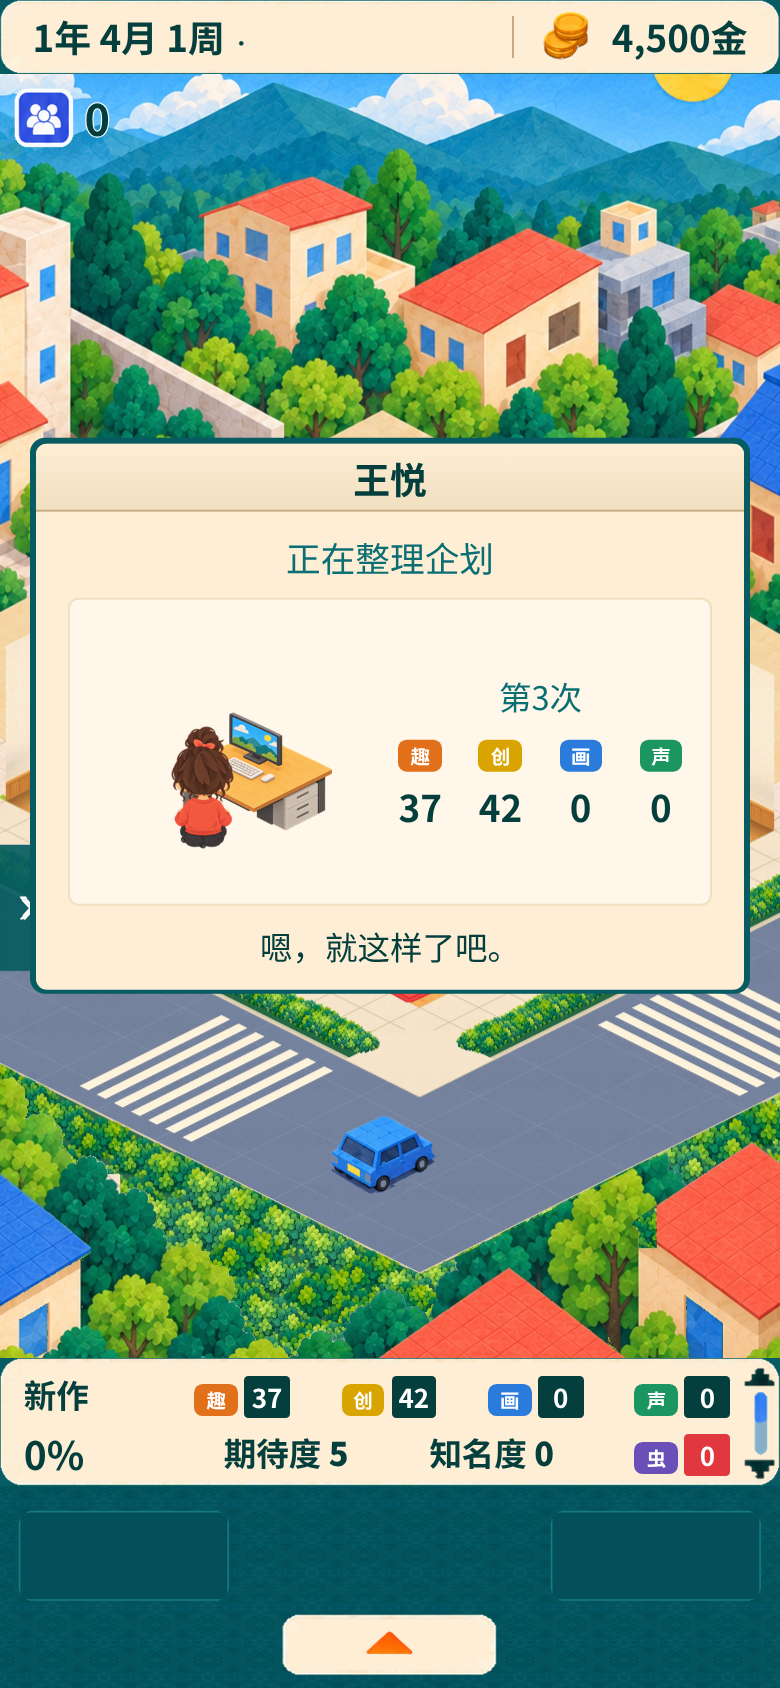
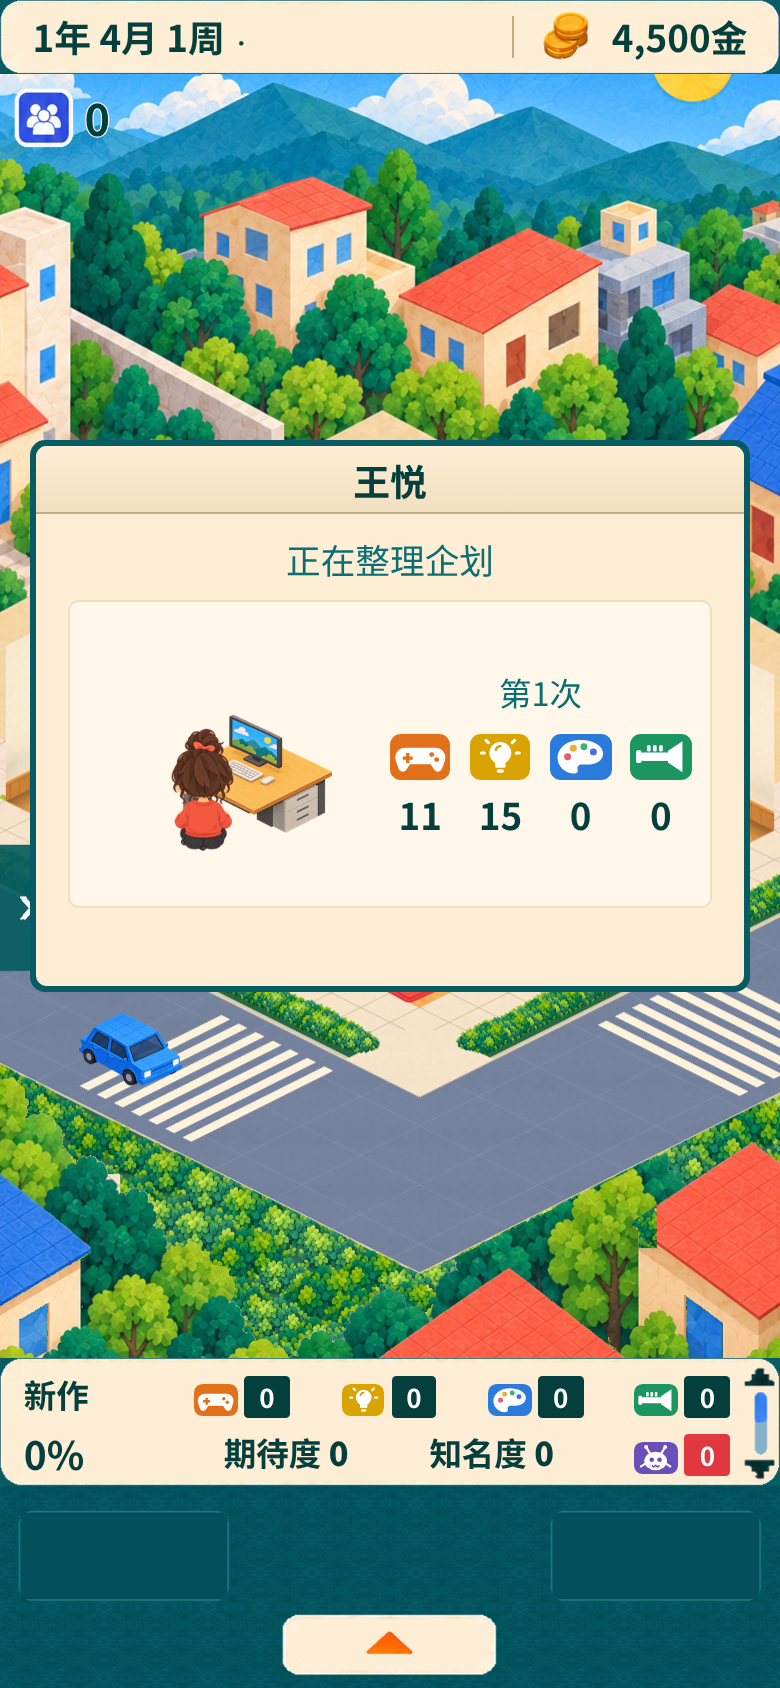
开发物语：点数/能力改成图标 + 负责人工作画面放慢到约 8 秒
- 趣/创/画/声/虫、程/剧/画/曲 全部换成图形图标（手柄、灯泡、调色盘、小号、小怪兽、电脑、书和笔），为出海去掉汉字；先用 SVG 占位，交付 assets/ui/ui_stat_*、ui_skill_*.png 后自动替换
- 用在信息栏、职员卡片、负责人工作画面、员工头顶冒点数气泡（气泡改成 图标 +N）
- 负责人工作画面整段约 8.5 秒：每次分 6 下涨数字，每下头顶冒对应图标
- UI需求：说明图标全游戏通用、不能有汉字

Claude-Session: https://claude.ai/code/session_01Sjn82GC4RaPqDzsSUAuyYh

diff --git a/games/kaifa-wuyu/src/game.src.html b/games/kaifa-wuyu/src/game.src.html
@@ -159,6 +159,13 @@ button:focus-visible{outline:3rem solid #F07A1A;outline-offset:2rem}
 .wst b.bump{animation:wbump .35s ease-out}
 @keyframes wbump{40%{transform:scale(1.35)}}
 .wsay{text-align:center;font-size:30rem;min-height:40rem;color:var(--ink)}
+/* 点数 / 能力图标（SVG 占位，交付 ui_stat_* / ui_skill_* 后换成贴图） */
+.sicon{padding:0;overflow:hidden}
+.sicon svg{width:100%;height:100%;display:block}
+.sicon.art{border-radius:0;box-shadow:none}
+.wst .ico-s{width:56rem;height:42rem;border-radius:10rem}
+.pop.ipop{display:flex;align-items:center;gap:4rem;padding:4rem 10rem 4rem 6rem}
+.pop .pico{width:34rem;height:26rem;display:inline-block;border-radius:0}
 .pmk{font-style:normal;font-size:22rem;color:#E2A400;margin-left:6rem}.pmk.x{color:var(--neg)}
 .pfoot .tico{width:40rem;height:40rem;border-radius:6rem;display:grid;place-items:center;color:#fff;font-size:20rem;font-weight:700}
 /* 制作人卡片 */

diff --git a/games/kaifa-wuyu/UI需求.md b/games/kaifa-wuyu/UI需求.md
@@ -19,6 +19,7 @@
 - 能拉伸的框一律做 **九宫格**：表里「九宫格」一栏是四边不拉伸的宽度（上,右,下,左）。
 - 按钮都要 **常态 / 按下** 两个状态；菜单项、选项行另有 **选中**。
 - 文字由程序渲染，图里**不要带字**（图标里的符号除外）。
+- **游戏以后要发布到美国**：图标里也不要用汉字（趣 / 创 / 画 / 声 / 虫、程 / 剧 / 画 / 曲这类单字都已改成图形），一切含义都靠图形表达。
 
 ## 风格母版：第二版效果图（已定稿）
 
@@ -154,7 +155,7 @@
 | ui_card_box | 604×自适应 | 10,10,10,10 | 卡片中部白底圆角框（左右两栏外框） |
 | ui_card_left | 270×220 | 6,6,6,6 | 左栏底（浅粉）：职业、等级、小人、体力 |
 | ui_card_right | 270×220 | 6,6,6,6 | 右栏底（浅绿灰）：四项能力 |
-| ui_skill_prog / scen / gfx / snd | 32×32 | — | 能力图标：编程（电脑）、编剧（书和笔）、画面（调色盘）、作曲（小号） |
+| ui_skill_prog / scen / gfx / snd | 32×32 | — | 能力图标：编程（电脑）、编剧（书和笔）、画面（调色盘）、作曲（小号）。程序已用 SVG 占位，交付后自动替换 |
 | ui_sta_track / ui_sta_fill | 12×14 | 2,0,2,0 | 体力条槽 / 填充（蓝；低体力时程序改红） |
 | ui_card_btn | 160×70 | 10,10,10,10 | 卡片上的「培训 / 确定」按钮：常态 / 按下 / 不可用 |
 | ui_train_bg_<id> | 270×220 | — | 培训画面背景，按培训内容各一张：walk 散步（街道）、code 刷算法题、read 读书充电、sketch 写生速写、music 扒谱练琴、jam 参加 GameJam、class 大厂进修班、spa 泡温泉。先出 walk 一张，其余可共用 |
@@ -218,6 +219,7 @@
 | ui_stat_gfx | 40×30 | — | 画面（调色盘） |
 | ui_stat_snd | 40×30 | — | 声音（小号） |
 | ui_stat_bug | 40×30 | — | Bug（小怪兽） |
+| — | — | — | **ui_stat_* 是全游戏通用的点数图标**：信息栏、负责人工作画面、员工头顶冒点数的气泡都用它。程序现在用 SVG 占位（截图 12 里那套），交付 PNG 后自动替换。头顶气泡里图标会叠在彩色气泡底上，所以图标边缘要干净、小尺寸（约 34×26）也认得出 |
 | ui_count_badge | 34×28 | 6,6,6,6 | 图标右边的数字底（深青绿）；Bug 用红色版 ui_count_badge_red |
 
 开发中页面排版：第一行「新作」+ 4 个点数图标；第二行「进度%」「期待度 N」「知名度 N」+ Bug 图标。
